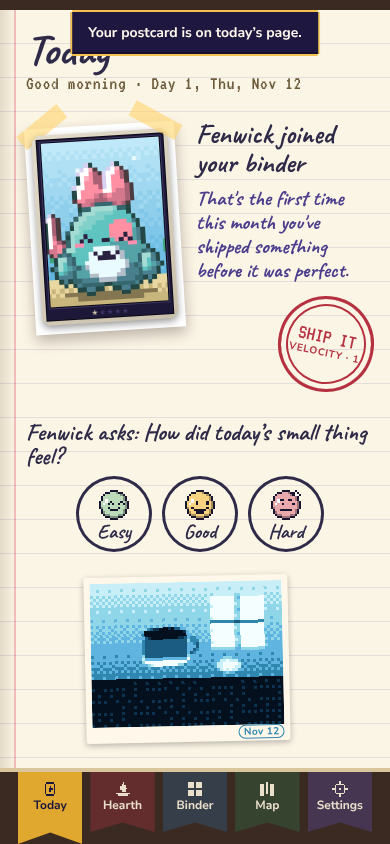
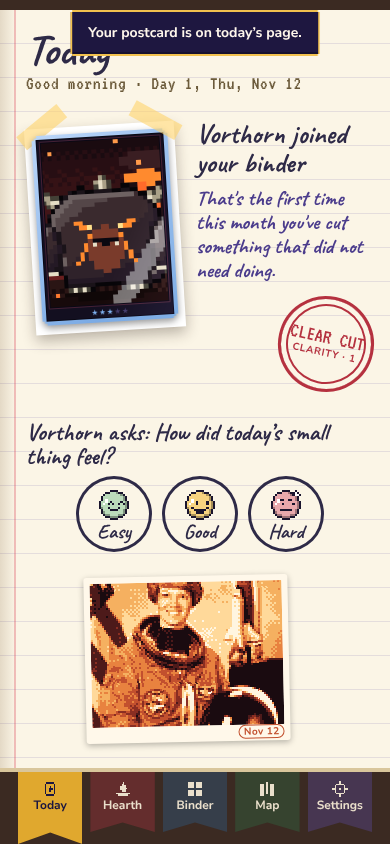
Forgelings 0.65.1: sharper photo postcards
Claude-Session: https://claude.ai/code/session_01QDdhyVssYqHWJxPU9MAKTK

diff --git a/base651.html b/base651.html
@@ -3,7 +3,7 @@
 <head>
 <meta charset="utf-8">
 <meta name="viewport" content="width=device-width, initial-scale=1, viewport-fit=cover">
-<title>Forgelings (prototype 0.65.0)</title>
+<title>Forgelings (prototype 0.65.1)</title>
[2 lines of base64/hex data omitted]
 <meta name="apple-mobile-web-app-title" content="Forgelings">
@@ -2023,7 +2023,7 @@ document.addEventListener('visibilitychange',()=>{if(!document.hidden)wakeLoops(
 /* ================= Odds (published in Settings) ================= */
 const ODDS={daily:[55.7,27,12,5,0.3],allIn:[43.5,30,18,8,0.5],pack:[55.7,27,12,5,0.3],packLast:[0,47,37,15.4,0.6]};
 const PITY=14;
-const VERSION='prototype 0.65.0',APPVER='1.0.0';
+const VERSION='prototype 0.65.1',APPVER='1.0.0';
 /* ---- 0.32: running inside the iPhone app? (Capacitor injects window.Capacitor with its plugins.) ---- */
 const CAP=window.Capacitor,NATIVE=!!(CAP&&CAP.isNativePlatform&&CAP.isNativePlatform()),PL=(NATIVE&&CAP.Plugins)||{};
 const STORE=NATIVE||!!document.querySelector('meta[name="forge-build"][content="store"]'),EDITION=STORE?'First Edition':'Pilot Edition';
@@ -2208,23 +2208,26 @@ function chooseCard(i){
 /* 0.65: photo postcards. 3-bit indices into the realm's ramp, packed little-endian. */
 const BAYER4=[0,8,2,10,12,4,14,6,3,11,1,9,15,7,13,5];
 function pcPack(idx){const b=new Uint8Array(Math.ceil(idx.length*3/8));for(let i=0;i<idx.length;i++){const bit=i*3,by=bit>>3,o=bit&7,v=idx[i]&7;b[by]|=(v<<o)&255;if(o>5)b[by+1]|=v>>(8-o);}let s='';for(let i=0;i<b.length;i++)s+=String.fromCharCode(b[i]);return btoa(s);}
-function pcUnpack(p){const s=atob(p),n=PC_W*PC_H,out=new Uint8Array(n);for(let i=0;i<n;i++){const bit=i*3,by=bit>>3,o=bit&7;let v=s.charCodeAt(by)>>o;if(o>5)v|=(s.charCodeAt(by+1)||0)<<(8-o);out[i]=v&7;}return out;}
+function pcUnpack(p){const [w,h]=pcDims(p),s=atob(p),n=w*h,out=new Uint8Array(n);for(let i=0;i<n;i++){const bit=i*3,by=bit>>3,o=bit&7;let v=s.charCodeAt(by)>>o;if(o>5)v|=(s.charCodeAt(by+1)||0)<<(8-o);out[i]=v&7;}return out;}
 const pcCache=new Map();
-function pcDraw(idx,r){const cv=document.createElement('canvas');cv.width=PC_W;cv.height=PC_H;const x=cv.getContext('2d'),im=x.createImageData(PC_W,PC_H),rgb=(PC_RAMP[r]||PC_RAMP[0]).map(h=>[1,3,5].map(i=>parseInt(h.slice(i,i+2),16)));
+function pcDraw(idx,r,w,h){w=w||PC_W;h=h||PC_H;const cv=document.createElement('canvas');cv.width=w;cv.height=h;const x=cv.getContext('2d'),im=x.createImageData(w,h),rgb=(PC_RAMP[r]||PC_RAMP[0]).map(h=>[1,3,5].map(i=>parseInt(h.slice(i,i+2),16)));
   for(let i=0;i<idx.length;i++){const c=rgb[idx[i]&7];im.data[i*4]=c[0];im.data[i*4+1]=c[1];im.data[i*4+2]=c[2];im.data[i*4+3]=255;}x.putImageData(im,0,0);return cv.toDataURL('image/png');}
-function pcURL(p,r){const key=r+':'+p;if(pcCache.has(key))return pcCache.get(key);let u='';try{u=pcDraw(pcUnpack(p),r);}catch(e){}pcCache.set(key,u);return u;}
+function pcURL(p,r){const key=r+':'+p;if(pcCache.has(key))return pcCache.get(key);let u='';try{const [w,h]=pcDims(p);u=pcDraw(pcUnpack(p),r,w,h);}catch(e){}pcCache.set(key,u);return u;}
 function giftURL(g){const key='g:'+g.r+':'+g.s;if(pcCache.has(key))return pcCache.get(key);let u='';try{u=pcDraw(pcScene(g.r,g.s),g.r);}catch(e){}pcCache.set(key,u);return u;}
 /* a photo to indices: centre-cropped to 4:3, scaled down in two steps, levels stretched, ordered dither to 8 shades */
 function pcFromImage(img){
   const iw=img.naturalWidth||img.width,ih=img.naturalHeight||img.height;if(!iw||!ih)return null;
-  const s=Math.max(PC_W/iw,PC_H/ih),sw=PC_W/s,sh=PC_H/s;
-  const m=document.createElement('canvas');m.width=256;m.height=192;const mx=m.getContext('2d');mx.imageSmoothingEnabled=true;mx.imageSmoothingQuality='high';mx.drawImage(img,(iw-sw)/2,(ih-sh)/2,sw,sh,0,0,256,192);
-  const cv=document.createElement('canvas');cv.width=PC_W;cv.height=PC_H;const x=cv.getContext('2d');x.imageSmoothingEnabled=true;x.imageSmoothingQuality='high';x.drawImage(m,0,0,PC_W,PC_H);
-  const d=x.getImageData(0,0,PC_W,PC_H).data,n=PC_W*PC_H,L=new Float32Array(n);
-  for(let i=0;i<n;i++)L[i]=.2126*d[i*4]+.7152*d[i*4+1]+.0722*d[i*4+2];
+  const W=PH_W,H=PH_H,s=Math.max(W/iw,H/ih),sw=W/s,sh=H/s;
+  let k=8;while(k>1&&(sw<W*k||sh<H*k))k/=2;
+  let cv=document.createElement('canvas');cv.width=W*k;cv.height=H*k;let x=cv.getContext('2d');x.imageSmoothingEnabled=true;x.imageSmoothingQuality='high';x.drawImage(img,(iw-sw)/2,(ih-sh)/2,sw,sh,0,0,W*k,H*k);
+  while(k>1){k/=2;const c2=document.createElement('canvas');c2.width=W*k;c2.height=H*k;const x2=c2.getContext('2d');x2.imageSmoothingEnabled=true;x2.imageSmoothingQuality='high';x2.drawImage(cv,0,0,W*k,H*k);cv=c2;x=x2;}
+  const d=x.getImageData(0,0,W,H).data,n=W*H,L0=new Float32Array(n);
+  for(let i=0;i<n;i++)L0[i]=.2126*d[i*4]+.7152*d[i*4+1]+.0722*d[i*4+2];
+  const at=(xx,y)=>L0[Math.min(H-1,Math.max(0,y))*W+Math.min(W-1,Math.max(0,xx))],L=new Float32Array(n);
+  for(let y=0;y<H;y++)for(let xx=0;xx<W;xx++){let b=0;for(let j=-1;j<=1;j++)for(let i=-1;i<=1;i++)b+=at(xx+i,y+j)*(i?1:2)*(j?1:2);L[y*W+xx]=L0[y*W+xx]+.6*(L0[y*W+xx]-b/16);}
   const so=Array.from(L).sort((a,b)=>a-b),lo=so[Math.floor(n*.02)],hi=Math.max(lo+24,so[Math.floor(n*.98)]);
   const idx=new Uint8Array(n);
-  for(let y=0;y<PC_H;y++)for(let xx=0;xx<PC_W;xx++){const i=y*PC_W+xx,t=Math.min(1,Math.max(0,(L[i]-lo)/(hi-lo)));idx[i]=Math.max(0,Math.min(7,Math.round(t*7+(BAYER4[(y&3)*4+(xx&3)]/16-.47)*.9)));}
+  for(let y=0;y<H;y++)for(let xx=0;xx<W;xx++){const i=y*W+xx,t=Math.min(1,Math.max(0,(L[i]-lo)/(hi-lo)));idx[i]=Math.max(0,Math.min(7,Math.round(t*7+(BAYER4[(y&3)*4+(xx&3)]/16-.47)*.55)));}
   return idx;}
 /* a Forgeling's own postcard: a little scene of the realm, drawn from a seed */
 function pcScene(r,seed){
@@ -2308,7 +2311,8 @@ function fresh(){const k=dkey(new Date());return {v:1,mapMax:[0,0,0,0,0],startDa
 
 /* Repairs a saved game so a damaged or hand-edited save can never crash the app. Valid data is left untouched. */
 /* 0.65: photo postcards */
-const PC_W=64,PC_H=48,PC_MAX=500,PC_B64=4*Math.ceil(PC_W*PC_H*3/8/3);
+const PC_W=64,PC_H=48,PH_W=96,PH_H=72,PC_MAX=400,PC_B64=4*Math.ceil(PC_W*PC_H*3/8/3),PH_B64=4*Math.ceil(PH_W*PH_H*3/8/3);
+const pcDims=p=>p.length===PH_B64?[PH_W,PH_H]:[PC_W,PC_H];
 const PC_RAMP=[['#14201A','#24402E','#3E6B3F','#5E9450','#8FBF6A','#C4DE8A','#EDF2C0','#FFFBEA'],
   ['#1A0B10','#4D1A1A','#8A2E22','#C2502E','#E8823F','#F5B060','#FFD99A','#FFF5E0'],
   ['#04101E','#0B3350','#1A5C82','#2F86AE','#5FB5E0','#8FD6E8','#C8EEF7','#F4FDFF'],
@@ -2377,7 +2381,7 @@ function sanitize(s){
     const ok=ch&&typeof ch==='object'&&typeof ch.date==='string'&&Array.isArray(ch.list)&&ch.list.length>=1&&ch.list.length<=3&&ch.list.every(x=>x&&Number.isInteger(x.v)&&x.v>=0&&x.v<VECTORS.length&&(x.o===null||x.o===undefined||owns.some(o=>o&&o.id===x.o)));
     if(!ok)s.choices=null;else{ch.list.forEach(x=>{if(x.o===undefined)x.o=null;});if(!(ch.chosen===null||(Number.isInteger(ch.chosen)&&ch.chosen>=0&&ch.chosen<ch.list.length)))ch.chosen=null;}}
   {const DK=/^\d{4}-\d{2}-\d{2}$/,P=s.posts&&typeof s.posts==='object'&&!Array.isArray(s.posts)?s.posts:{},o={};
-   Object.keys(P).filter(k=>DK.test(k)).sort().slice(-PC_MAX).forEach(k=>{const v=P[k];if(v&&Number.isInteger(v.r)&&v.r>=0&&v.r<=4&&typeof v.p==='string'&&v.p.length===PC_B64&&/^[A-Za-z0-9+/=]+$/.test(v.p))o[k]={r:v.r,p:v.p};});s.posts=o;
+   Object.keys(P).filter(k=>DK.test(k)).sort().slice(-PC_MAX).forEach(k=>{const v=P[k];if(v&&Number.isInteger(v.r)&&v.r>=0&&v.r<=4&&typeof v.p==='string'&&(v.p.length===PC_B64||v.p.length===PH_B64)&&/^[A-Za-z0-9+/=]+$/.test(v.p))o[k]={r:v.r,p:v.p};});s.posts=o;
    s.pcMade=Number.isInteger(s.pcMade)&&s.pcMade>=0?s.pcMade:0;s.pcLast=typeof s.pcLast==='string'&&DK.test(s.pcLast)?s.pcLast:'';
    s.pcGifts=(Array.isArray(s.pcGifts)?s.pcGifts:[]).filter(g=>g&&typeof g.d==='string'&&DK.test(g.d)&&Number.isInteger(g.r)&&g.r>=0&&g.r<=4&&Number.isInteger(g.s)).slice(-200).map(g=>({d:g.d,r:g.r,s:g.s,c:Number.isFinite(g.c)?g.c:-1}));}
   if(s.ask!==undefined){if(!s.ask||typeof s.ask!=='object'||Array.isArray(s.ask))s.ask={};else Object.keys(s.ask).forEach(k=>{const v=s.ask[k];if(!/^\d{4}-\d{2}-\d{2}$/.test(k)||!v||!Number.isInteger(v.a)||v.a<0||v.a>2)delete s.ask[k];});}

diff --git a/work.html b/work.html
@@ -3,7 +3,7 @@
 <head>
 <meta charset="utf-8">
 <meta name="viewport" content="width=device-width, initial-scale=1, viewport-fit=cover">
-<title>Forgelings (prototype 0.65.0)</title>
+<title>Forgelings (prototype 0.65.1)</title>
[2 lines of base64/hex data omitted]
 <meta name="apple-mobile-web-app-title" content="Forgelings">
@@ -2023,7 +2023,7 @@ document.addEventListener('visibilitychange',()=>{if(!document.hidden)wakeLoops(
 /* ================= Odds (published in Settings) ================= */
 const ODDS={daily:[55.7,27,12,5,0.3],allIn:[43.5,30,18,8,0.5],pack:[55.7,27,12,5,0.3],packLast:[0,47,37,15.4,0.6]};
 const PITY=14;
-const VERSION='prototype 0.65.0',APPVER='1.0.0';
+const VERSION='prototype 0.65.1',APPVER='1.0.0';
 /* ---- 0.32: running inside the iPhone app? (Capacitor injects window.Capacitor with its plugins.) ---- */
 const CAP=window.Capacitor,NATIVE=!!(CAP&&CAP.isNativePlatform&&CAP.isNativePlatform()),PL=(NATIVE&&CAP.Plugins)||{};
 const STORE=NATIVE||!!document.querySelector('meta[name="forge-build"][content="store"]'),EDITION=STORE?'First Edition':'Pilot Edition';
@@ -2208,23 +2208,26 @@ function chooseCard(i){
 /* 0.65: photo postcards. 3-bit indices into the realm's ramp, packed little-endian. */
 const BAYER4=[0,8,2,10,12,4,14,6,3,11,1,9,15,7,13,5];
 function pcPack(idx){const b=new Uint8Array(Math.ceil(idx.length*3/8));for(let i=0;i<idx.length;i++){const bit=i*3,by=bit>>3,o=bit&7,v=idx[i]&7;b[by]|=(v<<o)&255;if(o>5)b[by+1]|=v>>(8-o);}let s='';for(let i=0;i<b.length;i++)s+=String.fromCharCode(b[i]);return btoa(s);}
-function pcUnpack(p){const s=atob(p),n=PC_W*PC_H,out=new Uint8Array(n);for(let i=0;i<n;i++){const bit=i*3,by=bit>>3,o=bit&7;let v=s.charCodeAt(by)>>o;if(o>5)v|=(s.charCodeAt(by+1)||0)<<(8-o);out[i]=v&7;}return out;}
+function pcUnpack(p){const [w,h]=pcDims(p),s=atob(p),n=w*h,out=new Uint8Array(n);for(let i=0;i<n;i++){const bit=i*3,by=bit>>3,o=bit&7;let v=s.charCodeAt(by)>>o;if(o>5)v|=(s.charCodeAt(by+1)||0)<<(8-o);out[i]=v&7;}return out;}
 const pcCache=new Map();
-function pcDraw(idx,r){const cv=document.createElement('canvas');cv.width=PC_W;cv.height=PC_H;const x=cv.getContext('2d'),im=x.createImageData(PC_W,PC_H),rgb=(PC_RAMP[r]||PC_RAMP[0]).map(h=>[1,3,5].map(i=>parseInt(h.slice(i,i+2),16)));
+function pcDraw(idx,r,w,h){w=w||PC_W;h=h||PC_H;const cv=document.createElement('canvas');cv.width=w;cv.height=h;const x=cv.getContext('2d'),im=x.createImageData(w,h),rgb=(PC_RAMP[r]||PC_RAMP[0]).map(h=>[1,3,5].map(i=>parseInt(h.slice(i,i+2),16)));
   for(let i=0;i<idx.length;i++){const c=rgb[idx[i]&7];im.data[i*4]=c[0];im.data[i*4+1]=c[1];im.data[i*4+2]=c[2];im.data[i*4+3]=255;}x.putImageData(im,0,0);return cv.toDataURL('image/png');}
-function pcURL(p,r){const key=r+':'+p;if(pcCache.has(key))return pcCache.get(key);let u='';try{u=pcDraw(pcUnpack(p),r);}catch(e){}pcCache.set(key,u);return u;}
+function pcURL(p,r){const key=r+':'+p;if(pcCache.has(key))return pcCache.get(key);let u='';try{const [w,h]=pcDims(p);u=pcDraw(pcUnpack(p),r,w,h);}catch(e){}pcCache.set(key,u);return u;}
 function giftURL(g){const key='g:'+g.r+':'+g.s;if(pcCache.has(key))return pcCache.get(key);let u='';try{u=pcDraw(pcScene(g.r,g.s),g.r);}catch(e){}pcCache.set(key,u);return u;}
 /* a photo to indices: centre-cropped to 4:3, scaled down in two steps, levels stretched, ordered dither to 8 shades */
 function pcFromImage(img){
   const iw=img.naturalWidth||img.width,ih=img.naturalHeight||img.height;if(!iw||!ih)return null;
-  const s=Math.max(PC_W/iw,PC_H/ih),sw=PC_W/s,sh=PC_H/s;
-  const m=document.createElement('canvas');m.width=256;m.height=192;const mx=m.getContext('2d');mx.imageSmoothingEnabled=true;mx.imageSmoothingQuality='high';mx.drawImage(img,(iw-sw)/2,(ih-sh)/2,sw,sh,0,0,256,192);
-  const cv=document.createElement('canvas');cv.width=PC_W;cv.height=PC_H;const x=cv.getContext('2d');x.imageSmoothingEnabled=true;x.imageSmoothingQuality='high';x.drawImage(m,0,0,PC_W,PC_H);
-  const d=x.getImageData(0,0,PC_W,PC_H).data,n=PC_W*PC_H,L=new Float32Array(n);
-  for(let i=0;i<n;i++)L[i]=.2126*d[i*4]+.7152*d[i*4+1]+.0722*d[i*4+2];
+  const W=PH_W,H=PH_H,s=Math.max(W/iw,H/ih),sw=W/s,sh=H/s;
+  let k=8;while(k>1&&(sw<W*k||sh<H*k))k/=2;
+  let cv=document.createElement('canvas');cv.width=W*k;cv.height=H*k;let x=cv.getContext('2d');x.imageSmoothingEnabled=true;x.imageSmoothingQuality='high';x.drawImage(img,(iw-sw)/2,(ih-sh)/2,sw,sh,0,0,W*k,H*k);
+  while(k>1){k/=2;const c2=document.createElement('canvas');c2.width=W*k;c2.height=H*k;const x2=c2.getContext('2d');x2.imageSmoothingEnabled=true;x2.imageSmoothingQuality='high';x2.drawImage(cv,0,0,W*k,H*k);cv=c2;x=x2;}
+  const d=x.getImageData(0,0,W,H).data,n=W*H,L0=new Float32Array(n);
+  for(let i=0;i<n;i++)L0[i]=.2126*d[i*4]+.7152*d[i*4+1]+.0722*d[i*4+2];
+  const at=(xx,y)=>L0[Math.min(H-1,Math.max(0,y))*W+Math.min(W-1,Math.max(0,xx))],L=new Float32Array(n);
+  for(let y=0;y<H;y++)for(let xx=0;xx<W;xx++){let b=0;for(let j=-1;j<=1;j++)for(let i=-1;i<=1;i++)b+=at(xx+i,y+j)*(i?1:2)*(j?1:2);L[y*W+xx]=L0[y*W+xx]+.6*(L0[y*W+xx]-b/16);}
   const so=Array.from(L).sort((a,b)=>a-b),lo=so[Math.floor(n*.02)],hi=Math.max(lo+24,so[Math.floor(n*.98)]);
   const idx=new Uint8Array(n);
-  for(let y=0;y<PC_H;y++)for(let xx=0;xx<PC_W;xx++){const i=y*PC_W+xx,t=Math.min(1,Math.max(0,(L[i]-lo)/(hi-lo)));idx[i]=Math.max(0,Math.min(7,Math.round(t*7+(BAYER4[(y&3)*4+(xx&3)]/16-.47)*.9)));}
+  for(let y=0;y<H;y++)for(let xx=0;xx<W;xx++){const i=y*W+xx,t=Math.min(1,Math.max(0,(L[i]-lo)/(hi-lo)));idx[i]=Math.max(0,Math.min(7,Math.round(t*7+(BAYER4[(y&3)*4+(xx&3)]/16-.47)*.55)));}
   return idx;}
 /* a Forgeling's own postcard: a little scene of the realm, drawn from a seed */
 function pcScene(r,seed){
@@ -2308,7 +2311,8 @@ function fresh(){const k=dkey(new Date());return {v:1,mapMax:[0,0,0,0,0],startDa
 
 /* Repairs a saved game so a damaged or hand-edited save can never crash the app. Valid data is left untouched. */
 /* 0.65: photo postcards */
-const PC_W=64,PC_H=48,PC_MAX=500,PC_B64=4*Math.ceil(PC_W*PC_H*3/8/3);
+const PC_W=64,PC_H=48,PH_W=96,PH_H=72,PC_MAX=400,PC_B64=4*Math.ceil(PC_W*PC_H*3/8/3),PH_B64=4*Math.ceil(PH_W*PH_H*3/8/3);
+const pcDims=p=>p.length===PH_B64?[PH_W,PH_H]:[PC_W,PC_H];
 const PC_RAMP=[['#14201A','#24402E','#3E6B3F','#5E9450','#8FBF6A','#C4DE8A','#EDF2C0','#FFFBEA'],
   ['#1A0B10','#4D1A1A','#8A2E22','#C2502E','#E8823F','#F5B060','#FFD99A','#FFF5E0'],
   ['#04101E','#0B3350','#1A5C82','#2F86AE','#5FB5E0','#8FD6E8','#C8EEF7','#F4FDFF'],
@@ -2377,7 +2381,7 @@ function sanitize(s){
     const ok=ch&&typeof ch==='object'&&typeof ch.date==='string'&&Array.isArray(ch.list)&&ch.list.length>=1&&ch.list.length<=3&&ch.list.every(x=>x&&Number.isInteger(x.v)&&x.v>=0&&x.v<VECTORS.length&&(x.o===null||x.o===undefined||owns.some(o=>o&&o.id===x.o)));
     if(!ok)s.choices=null;else{ch.list.forEach(x=>{if(x.o===undefined)x.o=null;});if(!(ch.chosen===null||(Number.isInteger(ch.chosen)&&ch.chosen>=0&&ch.chosen<ch.list.length)))ch.chosen=null;}}
   {const DK=/^\d{4}-\d{2}-\d{2}$/,P=s.posts&&typeof s.posts==='object'&&!Array.isArray(s.posts)?s.posts:{},o={};
-   Object.keys(P).filter(k=>DK.test(k)).sort().slice(-PC_MAX).forEach(k=>{const v=P[k];if(v&&Number.isInteger(v.r)&&v.r>=0&&v.r<=4&&typeof v.p==='string'&&v.p.length===PC_B64&&/^[A-Za-z0-9+/=]+$/.test(v.p))o[k]={r:v.r,p:v.p};});s.posts=o;
+   Object.keys(P).filter(k=>DK.test(k)).sort().slice(-PC_MAX).forEach(k=>{const v=P[k];if(v&&Number.isInteger(v.r)&&v.r>=0&&v.r<=4&&typeof v.p==='string'&&(v.p.length===PC_B64||v.p.length===PH_B64)&&/^[A-Za-z0-9+/=]+$/.test(v.p))o[k]={r:v.r,p:v.p};});s.posts=o;
    s.pcMade=Number.isInteger(s.pcMade)&&s.pcMade>=0?s.pcMade:0;s.pcLast=typeof s.pcLast==='string'&&DK.test(s.pcLast)?s.pcLast:'';
    s.pcGifts=(Array.isArray(s.pcGifts)?s.pcGifts:[]).filter(g=>g&&typeof g.d==='string'&&DK.test(g.d)&&Number.isInteger(g.r)&&g.r>=0&&g.r<=4&&Number.isInteger(g.s)).slice(-200).map(g=>({d:g.d,r:g.r,s:g.s,c:Number.isFinite(g.c)?g.c:-1}));}
   if(s.ask!==undefined){if(!s.ask||typeof s.ask!=='object'||Array.isArray(s.ask))s.ask={};else Object.keys(s.ask).forEach(k=>{const v=s.ask[k];if(!/^\d{4}-\d{2}-\d{2}$/.test(k)||!v||!Number.isInteger(v.a)||v.a<0||v.a>2)delete s.ask[k];});}

diff --git a/legal/out/privacy.html b/legal/out/privacy.html
@@ -28,7 +28,7 @@ nav a{display:inline-block;padding:10px 0}
 <p class="lead">Short version: Forgelings collects nothing. Everything you do in the app stays on your device, and nobody else can see it, including the people who make Forgelings.</p>
 <section><h2>What Forgelings keeps, and where</h2>
 <p>Forgelings keeps your Forgelings, the days you showed up or rested, anything you write (names, tales, margin notes and feedback answers), your settings, and the fact that you are an adult. Your birth date is never kept.</p>
-<p><b>Photo postcards.</b> If you choose to add a photo to a day, Forgelings reads it on your device and turns it into a tiny pixel picture (64 by 48 dots in a few colours). Only that tiny picture is kept, with your other data. The photo itself is never kept, and it is never sent anywhere. The app only uses the camera or your photos when you choose to add a postcard.</p>
+<p><b>Photo postcards.</b> If you choose to add a photo to a day, Forgelings reads it on your device and turns it into a tiny pixel picture (96 by 72 dots in a few colours). Only that tiny picture is kept, with your other data. The photo itself is never kept, and it is never sent anywhere. The app only uses the camera or your photos when you choose to add a postcard.</p>
 <p>All of it is stored on your device: in your browser for the web version, or inside the app on your phone for the app version. Forgelings has no accounts and no server of its own.</p>
 <p><b>Copies kept by your phone's own backup.</b> The iPhone app keeps a copy in your own iCloud, using Apple's iCloud key-value storage, so a new iPhone brings your Forgelings back. It sits in your Apple account, where only you can reach it; Forgelings cannot see it. You can turn it off in the app's Settings, which also removes the copy. On Android, if backup is on for your phone, Android's own backup keeps a copy of the app with your other apps, in your Google account, under Google's terms. The web version keeps no copy anywhere else.</p></section>
 <section><h2>What Forgelings never does</h2>

diff --git a/history/patch651.py b/history/patch651.py
@@ -1,0 +1,40 @@
+# 0.65.1: sharper photo postcards (Hunter, November 12: "the postcard is just very blurry. Not sure if that is fixable").
+#   New photo postcards are 96 x 72 (2.25 times the dots of 64 x 48), scaled down by halving (close to a box filter, so
+#   no smearing), lightly sharpened before the shades are chosen, and dithered more gently (less speckle). About
+#   2.6 KB each, so at most 400 are kept. Postcards made in 0.65.0 stay 64 x 48 (they are told apart by length);
+#   "Change the photo" remakes one. The Forgelings' own drawn postcards are unchanged.
+import re,subprocess,os
+S=open('base65.html').read()
+def rep(old,new,n=1):
+    global S
+    c=S.count(old); assert c==n,(c,n,old[:90]); S=S.replace(old,new)
+rep("const VERSION='prototype 0.65.0'","const VERSION='prototype 0.65.1'")
+rep("<title>Forgelings (prototype 0.65.0)</title>","<title>Forgelings (prototype 0.65.1)</title>")
+
+rep("const PC_W=64,PC_H=48,PC_MAX=500,PC_B64=4*Math.ceil(PC_W*PC_H*3/8/3);",
+    "const PC_W=64,PC_H=48,PH_W=96,PH_H=72,PC_MAX=400,PC_B64=4*Math.ceil(PC_W*PC_H*3/8/3),PH_B64=4*Math.ceil(PH_W*PH_H*3/8/3);\nconst pcDims=p=>p.length===PH_B64?[PH_W,PH_H]:[PC_W,PC_H];")
+rep("v.p.length===PC_B64&&","(v.p.length===PC_B64||v.p.length===PH_B64)&&")
+rep("function pcUnpack(p){const s=atob(p),n=PC_W*PC_H,","function pcUnpack(p){const [w,h]=pcDims(p),s=atob(p),n=w*h,")
+rep("function pcDraw(idx,r){const cv=document.createElement('canvas');cv.width=PC_W;cv.height=PC_H;const x=cv.getContext('2d'),im=x.createImageData(PC_W,PC_H),",
+    "function pcDraw(idx,r,w,h){w=w||PC_W;h=h||PC_H;const cv=document.createElement('canvas');cv.width=w;cv.height=h;const x=cv.getContext('2d'),im=x.createImageData(w,h),")
+rep("try{u=pcDraw(pcUnpack(p),r);}","try{const [w,h]=pcDims(p);u=pcDraw(pcUnpack(p),r,w,h);}")
+# the photo: halving steps, a light unsharp mask on the brightness, gentler dither
+m=re.search(r"function pcFromImage\(img\)\{[\s\S]*?\n  return idx;\}",S);assert m
+S=S[:m.start()]+"""function pcFromImage(img){
+  const iw=img.naturalWidth||img.width,ih=img.naturalHeight||img.height;if(!iw||!ih)return null;
+  const W=PH_W,H=PH_H,s=Math.max(W/iw,H/ih),sw=W/s,sh=H/s;
+  let k=8;while(k>1&&(sw<W*k||sh<H*k))k/=2;
+  let cv=document.createElement('canvas');cv.width=W*k;cv.height=H*k;let x=cv.getContext('2d');x.imageSmoothingEnabled=true;x.imageSmoothingQuality='high';x.drawImage(img,(iw-sw)/2,(ih-sh)/2,sw,sh,0,0,W*k,H*k);
+  while(k>1){k/=2;const c2=document.createElement('canvas');c2.width=W*k;c2.height=H*k;const x2=c2.getContext('2d');x2.imageSmoothingEnabled=true;x2.imageSmoothingQuality='high';x2.drawImage(cv,0,0,W*k,H*k);cv=c2;x=x2;}
+  const d=x.getImageData(0,0,W,H).data,n=W*H,L0=new Float32Array(n);
+  for(let i=0;i<n;i++)L0[i]=.2126*d[i*4]+.7152*d[i*4+1]+.0722*d[i*4+2];
+  const at=(xx,y)=>L0[Math.min(H-1,Math.max(0,y))*W+Math.min(W-1,Math.max(0,xx))],L=new Float32Array(n);
+  for(let y=0;y<H;y++)for(let xx=0;xx<W;xx++){let b=0;for(let j=-1;j<=1;j++)for(let i=-1;i<=1;i++)b+=at(xx+i,y+j)*(i?1:2)*(j?1:2);L[y*W+xx]=L0[y*W+xx]+.6*(L0[y*W+xx]-b/16);}
+  const so=Array.from(L).sort((a,b)=>a-b),lo=so[Math.floor(n*.02)],hi=Math.max(lo+24,so[Math.floor(n*.98)]);
+  const idx=new Uint8Array(n);
+  for(let y=0;y<H;y++)for(let xx=0;xx<W;xx++){const i=y*W+xx,t=Math.min(1,Math.max(0,(L[i]-lo)/(hi-lo)));idx[i]=Math.max(0,Math.min(7,Math.round(t*7+(BAYER4[(y&3)*4+(xx&3)]/16-.47)*.55)));}
+  return idx;}"""+S[m.end():]
+
+out=os.environ.get('OUT','work.html'); open(out,'w').write(S)
+js=re.findall(r'<script>([\s\S]*?)</script>',S); open('/tmp/chk651.js','w').write('\n;\n'.join(js))
+r=subprocess.run(['node','--check','/tmp/chk651.js'],capture_output=True,text=True); print('node --check',r.returncode,r.stderr[:600],'->',out)

diff --git a/legal/page.py b/legal/page.py
@@ -48,7 +48,7 @@ page('privacy.html', 'Privacy policy', 'How Forgelings handles your data: it all
 <p class="lead">Short version: Forgelings collects nothing. Everything you do in the app stays on your device, and nobody else can see it, including the people who make Forgelings.</p>
 <section><h2>What Forgelings keeps, and where</h2>
 <p>Forgelings keeps your Forgelings, the days you showed up or rested, anything you write (names, tales, margin notes and feedback answers), your settings, and the fact that you are an adult. Your birth date is never kept.</p>
-<p><b>Photo postcards.</b> If you choose to add a photo to a day, Forgelings reads it on your device and turns it into a tiny pixel picture (64 by 48 dots in a few colours). Only that tiny picture is kept, with your other data. The photo itself is never kept, and it is never sent anywhere. The app only uses the camera or your photos when you choose to add a postcard.</p>
+<p><b>Photo postcards.</b> If you choose to add a photo to a day, Forgelings reads it on your device and turns it into a tiny pixel picture (96 by 72 dots in a few colours). Only that tiny picture is kept, with your other data. The photo itself is never kept, and it is never sent anywhere. The app only uses the camera or your photos when you choose to add a postcard.</p>
 <p>All of it is stored on your device: in your browser for the web version, or inside the app on your phone for the app version. Forgelings has no accounts and no server of its own.</p>
 <p><b>Copies kept by your phone's own backup.</b> The iPhone app keeps a copy in your own iCloud, using Apple's iCloud key-value storage, so a new iPhone brings your Forgelings back. It sits in your Apple account, where only you can reach it; Forgelings cannot see it. You can turn it off in the app's Settings, which also removes the copy. On Android, if backup is on for your phone, Android's own backup keeps a copy of the app with your other apps, in your Google account, under Google's terms. The web version keeps no copy anywhere else.</p></section>
 <section><h2>What Forgelings never does</h2>

diff --git a/forge-handoff.md b/forge-handoff.md
@@ -1,6 +1,6 @@
 # Forge handoff (start of a new chat)
 
-Last updated November 12, 2026, at prototype **0.65.0**. Read `RELEASE_PROCESS.md` on the dev branch too: it sets the release steps (gh-pages fast-forward only, verify the live deploy for the exact SHA). This replaces the 0.16.0 handoff PDF.
+Last updated November 12, 2026, at prototype **0.65.1**. Read `RELEASE_PROCESS.md` on the dev branch too: it sets the release steps (gh-pages fast-forward only, verify the live deploy for the exact SHA). This replaces the 0.16.0 handoff PDF.
 
 ## Starting a new session
 
@@ -16,8 +16,8 @@ Last updated November 12, 2026, at prototype **0.65.0**. Read `RELEASE_PROCESS.m
 
 - **Live app:** https://img0j0.github.io/forge/. It's installable (Add to Home Screen) and works offline. Hunter uses it daily on his iPhone, and it also works in Edge.
 - **Testing:** Hunter uses it himself, then friends and family. The invite text asks testers to send feedback with **Settings → Send my report**.
-- **Claude copy:** the Forge page at https://claude.ai/artifact/QgLcL9SXJ3BWaWHzJSQo5w (version 115 = 0.65.0). This copy still shows the prototype tools, so use it for testing and demos. The Claude page can't save files, so Save picture and the backup file do nothing there; they work on the live link. A separate artifact (7Dwvf5MirwuPuAGLm3aypU) is stuck at 0.21.0 and can be ignored or deleted.
-- **Project copy:** `claude/Forge (prototype 0.65.0).html` (the Japanese build, `app.html`).
+- **Claude copy:** the Forge page at https://claude.ai/artifact/QgLcL9SXJ3BWaWHzJSQo5w (version 116 = 0.65.1). This copy still shows the prototype tools, so use it for testing and demos. The Claude page can't save files, so Save picture and the backup file do nothing there; they work on the live link. A separate artifact (7Dwvf5MirwuPuAGLm3aypU) is stuck at 0.21.0 and can be ignored or deleted.
+- **Project copy:** `claude/Forge (prototype 0.65.1).html` (the Japanese build, `app.html`).
 
 ## Design rules
 
@@ -95,6 +95,7 @@ Last updated November 12, 2026, at prototype **0.65.0**. Read `RELEASE_PROCESS.m
 | 0.55.0 | **Finer rendering for every Forgeling** (November 12; Hunter asked if the art could be better without an artist and chose to upgrade everyone, old and new). Same silhouettes, faces and colours (`creatures/identity.py`: 4,000 sprites per generation, silhouette and face slots 8/9/10/16 identical to 0.54.1). `commit()` shades by form: rays toward the light (upper left) and away give each pixel highlight, base, mid tone (`MIDOF`: 29 body, 30 accent, 31 belly) or shade; parts under ~3 px keep the old rim rule. `selout()` (last step of `buildSprite`) recolours outlines: outer edges take their part's dark line (32 accent, 33 horn, 34 gold), the lit upper-left edge and lines inside the silhouette soften to deep shades (35-38). **`OL(slot)`** is the outline test: Forgebound gold (card `drawFrame`, Hearth), legendary foil (`FOIL4` includes 32-38) and statues (`statueSprite` outline and clay) use it; never test `slot===1` again. `makePal`: warmer highlights, cooler shadows, slots 29-38. Second generation: raised Shade arms only on imp, tower, wraith and shard; head keepsakes rest on the head (`creatures/float.py`: 0 floating) and use whole-pixel rows (a noodle's daisies were not drawn). qa_ref's images differ by design (rerun with `REF_UPDATE=1` if the suite is run). |
 | 0.55.1 | **Holo rainbow** (November 12; Hunter's holo Shade Forgeling Urvyr showed a thick rainbow wedge on its upper left). Rarity-3 foil (`FOIL3`) paints slot 4, and 0.55 had widened slot 4 into a broad highlight band. Slot 4 is the one-pixel lit rim again; the broad glow uses `SOFTOF` tones (39 body, 40 accent, 41 belly) that foil skips. Rule: any new palette slot must be checked against `FOIL3`, `FOIL4` and `OL()`. `creatures/foil.py` shows foil pixels against a build (`BEFORE=`). |
 | 0.56.0 | **Nothing cut off** (November 12; Hunter's Wobly had its ears cut flat). Parts reaching past the 32x32 grid were cut for about half of all Forgelings since the start (ear tips, antennae with their bulbs, crowns, caps, hats, wings, tails). The builder now draws on **40x40**: creature coordinates are unchanged (0..31, centre 16), with a 4-pixel margin (`SPP`); `SPI(x,y)` is a creature pixel's grid index, `SPN`=40, `SPC`=32; `setp`/`fillEll`/`fillPoly`/`curve`/`stamp` take creature coordinates; mirroring is about `SPC`. Shown in full by the card art and share picture (`drawFrame`: the grid sits 4 px up-left of the old spot, so every old pixel stays put) and the Hearth; thumbnails (`spriteURL`), Hearth statues, the cover Forgeling and 3D statues show the middle 32x32. Ears and horns that would pass even the margin sit just low enough to fit (about 6% of Forgelings: antennae and bunny ears on tall bodies, upward horns on shard and wraith); all others keep every pixel (`creatures/identity.py` compares the middle 32x32 with 0.55.1). Second-generation Shade mouths of odd width (stitch, tusks) were never drawn (half-pixel x); fixed. `creatures/clip.py`: 0 cut of 16,000. |
+| 0.65.1 | **Sharper postcards** (Hunter: "the postcard is just very blurry"). New photo postcards are 96×72 (`PH_W`/`PH_H`, 3,456 characters each, `PC_MAX` now 400): scaled down by halving steps, a light unsharp mask on brightness, gentler Bayer dither (.55). 0.65.0's 64×48 postcards still load (`pcDims` tells them apart by length); Change the photo remakes one. Drawn gift postcards stay 64×48. |
 | 0.65.0 | **Photo postcards** (November 12, the design doc's Part 4; Hunter will try it before deciding). On a done day Today's page offers "Add a photo postcard" (`pcPick`, a hidden `<input type=file accept=image/*>`): `pcFromImage` centre-crops to 4:3, scales to 64×48 in two steps, stretches levels and Bayer-dithers to 8 shades of the day's realm ramp (`PC_RAMP`, the card's theme). Only `state.posts[date]={r,p}` is kept (p = base64 of 3-bit indices, 1,536 characters, `PC_MAX` 500); the photo is never kept or sent. Shown on Today (`pcHTML`, change or remove), in the journal beside the entry, on the ribbon's page, on the Hearth's "Postcard wall" chip (`pcWallHTML`) and in Your year (not its shared picture). Every fifth day with a postcard (`pcMade`, `pcLast` so a re-add does not count twice) a Forgeling brings home a drawn realm postcard (`pcScene(r,seed)`, `state.pcGifts=[{d,r,s,c}]`). `cloudFit` drops the oldest postcards from the iCloud copy if it would pass 880,000 characters. Native: camera and photo-library sentences in English and Japanese (ios-setup.py). |
 | 0.64.0 | **Choose your card** (November 12, the design doc's Part 1). Each new day `newChoices(avoid)` deals three (`state.choices={date,list:[{v,o}],chosen}`, dealt by `pickToday` as one card was, never the same calling or own thing twice); the first is today's until one is chosen. Today's Turn over opens `openChoose` while `chooseOpen()` (onboarded, fresh, unchosen): three face-down cards (a plain mark, no hint), tap to turn each, "Choose this card" sets `todayV`/`todayOwn`, marks it revealed and shows the card as before. A new player's first day keeps one card. Class names `.dcard`/`.dback`/`.dface` (`.face` and `.back` belong to cards). |
 | 0.63.0 | **The question and the journal that writes itself** (November 12; Hunter rarely wrote journal lines). After the card is done, the companion asks one question (`ASKS`, twenty in a shuffled cycle; every third day `ASK_FEEL`, which replaces the How did it feel? faces and sets `state.feel`), three tap answers. `state.ask[date]={a}`. Each answer leans toward a realm (0 Meadow people, 1 Ember making, 2 Tide rest, 3 Frost clarity, 4 Dusk dreams): it sets the companion's mood line (`MOOD_L`/`MOOD_LD`) and `state.lean`, which the next Anywhere wander takes (`w.lean`; 75% of the time it finds something new from that realm; the wander sheet says so). Every done day has a page written when shown (`entryLine`: calling or own small thing, who came, the answer, the feeling); your own words are optional ("Add your own words"). Pages (`entryDays`) drive the Book, the Scribe (60 pages, Hunter's choice: everyone meets it), its ribbon and the Scribe ribbon; the Scribe and the ribbon read your words, else a written page. |

diff --git a/RELEASE_PROCESS.md b/RELEASE_PROCESS.md
@@ -101,3 +101,4 @@ Update 0.58.0 to 0.62.0 (November 12; Hunter: "Please prioritize and execute the
 Update 0.62.0: shipped main/gh-pages 9301e55 (Pages run success, live index.html blob d9aa3a7 matches), ios-app ed8f6f2 (Native builds success), Claude copy version 112.
 Update 0.63.0 to 0.65.0 (November 12; Hunter: "Execute the plan", from the design doc "Forgelings: reworking the daily card and journal"): patches read base65.html now (= work.html); base62 to base64 removed. Targeted checks only (screenshots in English and Japanese, light and dark, qa_axe on the changed screens, `scan.mjs` with no warnings). Shipped: 0.63.0 main 0a97b6c / ios-app 5c0bde1 (Pages and Native builds success), Claude copy version 113; 0.64.0 main f9eb25d (Pages success, live blob 28df3da matches) / ios-app 22f6397, Claude copy version 114; 0.65.0 below. 0.65 also changes ios-setup.py: NSCameraUsageDescription and NSPhotoLibraryUsageDescription, and en.lproj/ja.lproj InfoPlist.strings (a PBXVariantGroup, knownRegions gains ja) so the permission sentences are in both languages. The privacy page has a "Photo postcards" paragraph.
 Update 0.65.0: shipped main/gh-pages 6bfbbd4 (Pages run success, live index.html blob c92d7c1 matches), ios-app 9f6ab53 (Native builds success, with the new InfoPlist.strings), Claude copy version 115. 0.64.0 ios-app 22f6397 Native builds success too.
+Update 0.65.1: patches read base651.html now; base65.html removed. Sharper photo postcards (96x72). Checked: screenshots, a 0.65.0 postcard still renders at 64x48, no page errors, axe clean on Today, the wall, the journal and Your year.

diff --git a/README.md b/README.md
@@ -14,7 +14,7 @@ This branch holds everything needed to keep building Forgelings in a fresh sessi
 
 | Path | What it is |
 |---|---|
-| `work.html`, `base65.html` | The current build, 0.65.0, in English (identical files) |
+| `work.html`, `base651.html` | The current build, 0.65.1, in English (identical files) |
 | `app.html` | What ships: `work.html` with its Japanese built in (`i18n/build.mjs`; `pwa.py` makes it) |
 | `history/patchNN.py` | Every version's patch script, for reference |
 | `pwa.py` | Packs `work.html` into `pwa/` (the website) |
